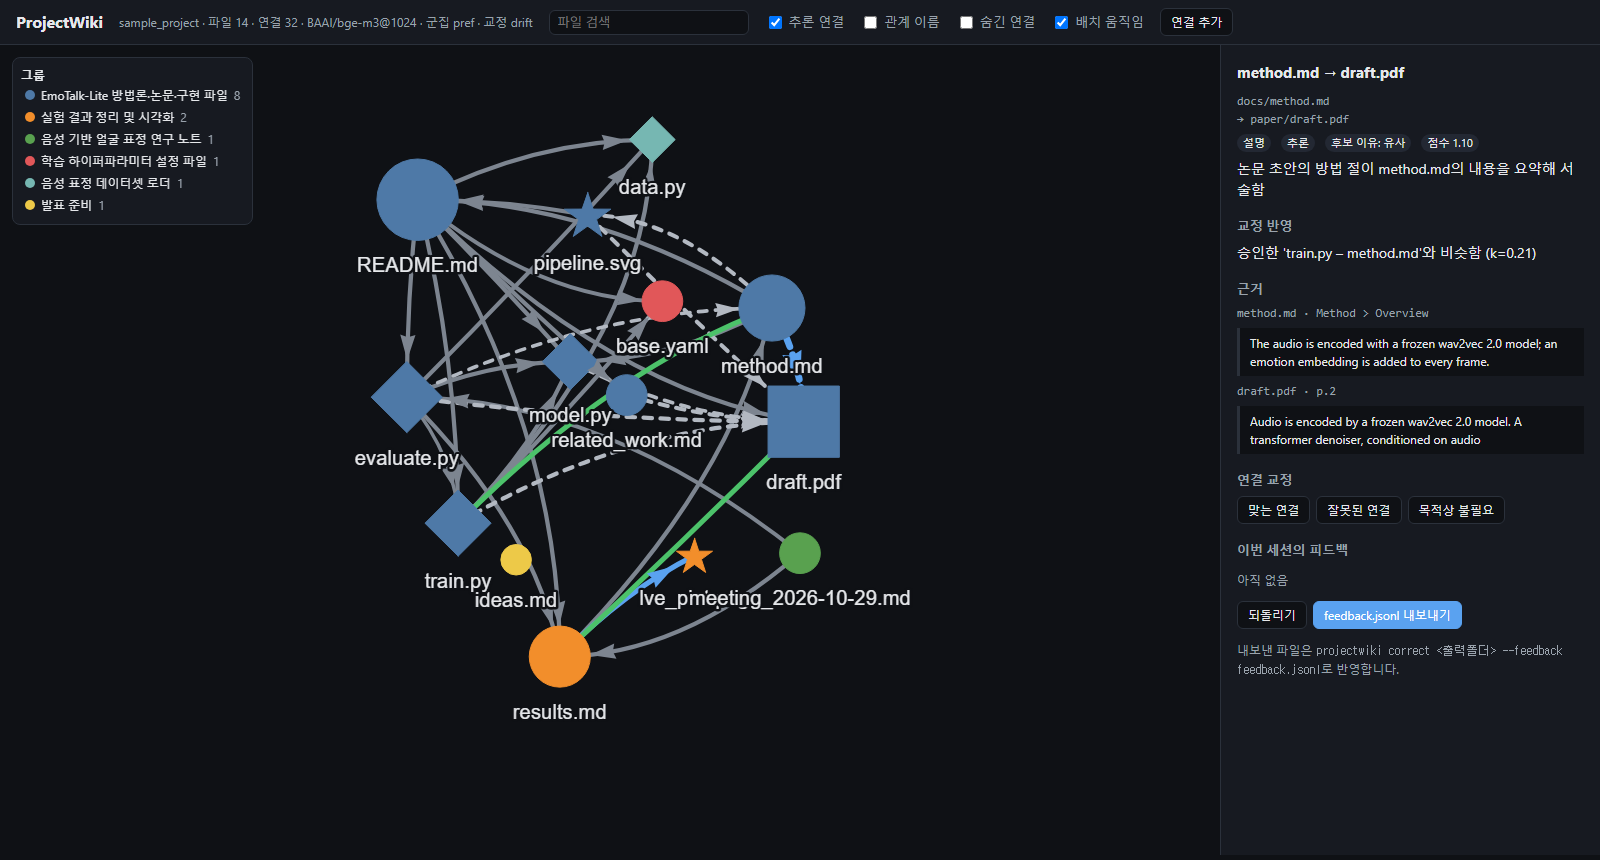
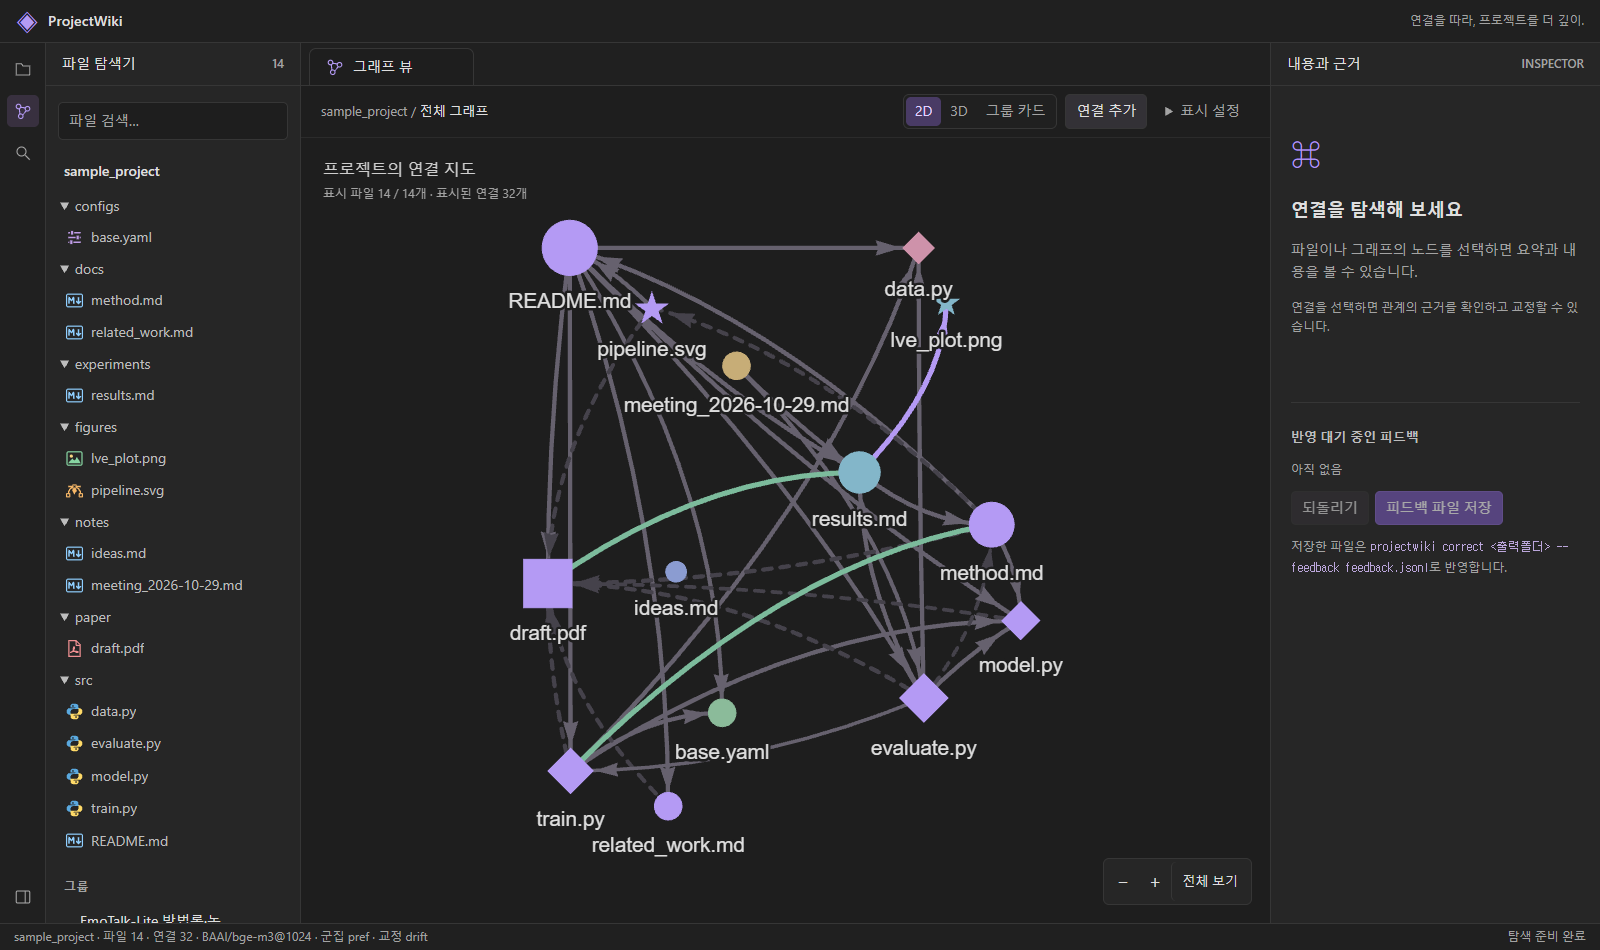
README: current viewer, pipeline and folder docs
- New viewer screenshot (three panes, 2D / 3D / group cards)
- Pipeline diagram adds the --setup preferences and the final approval
- Viewer section rewritten for the current screen; 3D height explained
- models/ and srcs/ READMEs list best-of-n and the files added since 11/24

diff --git a/README.md b/README.md
@@ -13,16 +13,18 @@
 
 ```mermaid
 flowchart LR
+  S[사전 선호 입력<br/>--setup] -.-> M2
   A[프로젝트 폴더] --> I[파일 입력<br/>근거 조각] --> R1[그림 설명·요약<br/>Claude]
   R1 --> M1[① 인코딩<br/>bge-m3] --> R2[프로젝트 레코드]
   R2 --> M2[② 군집화 🧪] --> M3[③ 구조 생성<br/>reranker + Claude 판정]
-  M3 --> M4[④ 선호도 반영 🧪] --> F[최종 그래프<br/>직접 편집 재적용] --> M5[⑤ 시각화]
+  M3 --> M4[④ 선호도 반영 🧪] --> F[최종 그래프<br/>직접 편집 재적용] --> M5[⑤ 시각화<br/>뷰어]
   M5 -. 사용자 피드백 .-> M4
+  M5 --> W[최종 승인<br/>그래프·위키 고정]
   classDef model fill:#dbe9f7,stroke:#4e79a7,color:#1f2328
   class M1,M2,M3,M4,M5 model
 ```
 
-파란 상자가 모델 단계(①–⑤)이고, 단계마다 [`projectwiki/models/`](projectwiki/models)의 파일 하나가 맡습니다.
+파란 상자가 모델 단계(①–⑤)이고, 단계마다 [`projectwiki/models/`](projectwiki/models)의 파일 하나가 맡습니다. `build --setup`으로 시작하면 사전 선호 입력부터 피드백 반영, 최종 승인까지 브라우저 한 화면에서 이어집니다.
 
 | 모델 단계 | 파일 | 하는 일 | 모델·방법 |
 |---|---|---|---|
@@ -30,7 +32,7 @@ flowchart LR
 | 2 군집화 🧪 | [`clustering.py`](projectwiki/models/clustering.py) | 파일 → 그룹, 사용자 선호 반영 | `pref`: 중요 파일·쌍 1–5 평가·객관식 가이드 (회의안) / `baseline`: 선호 미반영 |
 | 3 구조 생성 | [`structure.py`](projectwiki/models/structure.py) | 후보 연결 → 근거 쌍 선택 → 관계·방향·직접/추론 판정, 인용 검증 | **bge-reranker-v2-m3**, **Claude Sonnet 5.5** |
 | 4 선호도 반영 🧪 | [`preference.py`](projectwiki/models/preference.py) | 사용자 피드백을 건드리지 않은 연결에 일반화 | `drift`: 커널 끌림/밀어냄 (회의 4안) / `align`: Bradley–Terry 선호 정렬 (회의 1안) / `best-of-n`: Drift 강도 3개 중 피드백에 가장 맞는 것 선택 / `baseline` |
-| 5 시각화 | [`visualization.py`](projectwiki/models/visualization.py) | 뷰어(근거 보기·교정·피드백 내보내기), Obsidian 볼트 | vis-network |
+| 5 시각화 | [`visualization.py`](projectwiki/models/visualization.py) | 뷰어(2D·3D·그룹 카드, 근거 보기, 교정, 피드백), Obsidian 볼트 | vis-network, 3d-force-graph |
 
 흰 상자는 모델 단계 사이의 데이터 준비이고 [`projectwiki/srcs/`](projectwiki/srcs)가 맡습니다.
 
@@ -197,18 +199,24 @@ projectwiki obsidian runs/sample vault/      # Obsidian 볼트로 내보내기
 
 ### 뷰어 (`view.html`)
 
-브라우저로 바로 엽니다. vis-network를 CDN에서 받으므로 인터넷이 필요합니다.
+브라우저로 바로 엽니다. 그래프 라이브러리를 CDN에서 받으므로 인터넷이 필요합니다. 화면은 세 칸입니다.
 
-- **보기**: 2D / 3D(높이 = 중요도) / 그룹 카드
+| 왼쪽: 파일 탐색기 | 가운데: 그래프 뷰 | 오른쪽: 내용과 근거 |
+|---|---|---|
+| 폴더 트리, 파일 검색, 그룹 목록(그룹별로 켜고 끄기) | 2D / 3D / 그룹 카드 전환, 연결 추가, 표시 설정 | 선택한 파일·연결의 요약과 근거, 반영 대기 중인 피드백 |
+
 - **그래프 표시**
-  - 노드 색: 그룹, 노드 모양: 파일 형식
+  - 노드 색: 그룹, 노드 모양: 파일 형식, 노드 크기: 연결 수
   - 실선: 직접 근거, 점선: 추론
-  - 파란 굵은 선: 승인, 초록 선: 사용자가 추가한 연결
-- **노드 클릭**: 요약, 내용 미리보기, 연결 목록을 봅니다. 다른 그룹으로 옮기거나(이동) 그룹에서 뺄 수 있습니다.
+  - 보라 굵은 선: 승인, 초록 선: 사용자가 추가한 연결, 빨간 점선: 숨긴 연결('표시 설정 → 숨긴 연결'을 켜면 보임)
+  - 3D: 높이는 방향 있는 관계(구현·사용·생성 등)를 따라 다른 파일들이 기대는 파일일수록 위입니다.
+  - 그룹 카드: 그룹을 카드 하나로 묶어 그룹 사이 연결만 봅니다.
+- **노드 클릭**: 요약, 내용 미리보기, 연결 목록을 봅니다. 다른 그룹으로 옮기거나 그룹에서 뺄 수 있습니다.
 - **연결 클릭**: 관계, 양쪽 원문 인용, 교정 반영 이유를 봅니다. **맞는 연결 / 잘못된 연결 / 목적상 불필요**로 표시합니다.
 - **연결 추가**: 두 노드를 차례로 누르고 관계 이름을 적습니다 (예: "발표에 함께 쓸 자료").
-- **피드백 저장**: `피드백 파일 저장`으로 받은 `feedback.jsonl`을 `projectwiki correct`에 넘깁니다.
-- **`--setup`으로 연 화면**: `피드백 반영하기`로 바로 반영되고, `최종 승인`으로 그래프·뷰어·위키를 고정합니다.
+- **피드백**: 고친 내용은 오른쪽 '반영 대기 중인 피드백'에 쌓이고 `되돌리기`로 취소합니다.
+  - 일반 실행: `피드백 파일 저장`으로 받은 `feedback.jsonl`을 `projectwiki correct`에 넘깁니다.
+  - `--setup`으로 연 화면: `피드백 반영하기`로 바로 반영되고, `최종 승인`으로 그래프·뷰어·위키를 고정합니다.
 
 ### 출력 폴더
 

diff --git a/projectwiki/models/README.md b/projectwiki/models/README.md
@@ -7,8 +7,8 @@
 | 1 인코딩 | `encoder.py` | 근거 조각·파일 요약을 벡터로 바꿈, 텍스트 해시 캐시 | bge-m3 (테스트용 TF-IDF) | 조각·요약 → `Encoded` |
 | 2 군집화 🧪 | `clustering.py` | 파일을 그룹으로 묶음 (사용자 선호 반영) | `baseline`, `pref` | `Record` + `Preferences` → `list[Group]` |
 | 3 구조 생성 | `structure.py` | 후보 연결 → 근거 쌍 리랭킹 → 관계 판정·인용 검증 | bge-reranker-v2-m3, Claude | `Record` + 그룹 → `Graph` |
-| 4 선호도 반영 🧪 | `preference.py` | 사용자 피드백을 건드리지 않은 연결에 일반화 | `baseline`, `drift`(4안), `align`(1안) | `Graph` + 피드백 → `Correction` |
-| 5 시각화 | `visualization.py` | 뷰어 `view.html`, Obsidian 볼트 | vis-network (모델 없음) | 최종 `Graph` → 파일 |
+| 4 선호도 반영 🧪 | `preference.py` | 사용자 피드백을 건드리지 않은 연결에 일반화 | `baseline`, `drift`(4안), `align`(1안), `best-of-n`(Drift 강도 3개 중 피드백에 가장 맞는 것) | `Graph` + 피드백 → `Correction` |
+| 5 시각화 | `visualization.py` | 뷰어 `view.html`(2D·3D·그룹 카드), Obsidian 볼트 | vis-network, 3d-force-graph (모델 없음) | 최종 `Graph` → 파일 |
 
 ## 실험 구간에 방법 넣기 (2·4단계)
 

diff --git a/projectwiki/srcs/README.md b/projectwiki/srcs/README.md
@@ -16,5 +16,11 @@
 | `report.py` | 도구 | `projectwiki report` → `stages.html` (단계별 출력, 회의안 대비 판정, 교정 방법 비교) |
 | `doctor.py` | 도구 | `projectwiki doctor` → 패키지·GPU·모델 캐시·Claude 연결 점검 |
 | `view_template.html` | 5 시각화 | 뷰어 HTML. 안의 `applyEvents()`는 `finalize.py`와 같은 규칙을 따라야 함 |
+| `setup_server.py` | 사전 선호 입력 (`--setup`) | 이 컴퓨터 안에서만 열리는 주소로 폼 → 빌드 → 그래프 화면을 띄움. 피드백 바로 반영, 최종 승인 |
+| `setup_form.html` | 사전 선호 입력 | 목적·우선할 자료·묶는 방식을 묻는 폼 |
+| `initial_preferences.py` | 사전 선호 입력 | 폼 답을 `Preferences`로 바꾸고, 우선할 자료에 해당하는 파일을 고름 |
+| `text_feedback.py` | 4 선호도 반영 | 글로 쓴 교정 요청 → 검증된 피드백 이벤트 (Claude) |
+| `feedback_changes.py` | 4 선호도 반영 | 피드백 전후 그래프를 비교해 바뀐 연결을 요약 |
+| `wiki_approval.py` | 최종 승인 | 그래프·뷰어·Markdown 위키를 `approved_wiki/`에 한 버전으로 고정 |
 
 데이터 형식은 [`../schema.py`](../schema.py), 설정값은 [`../config.py`](../config.py)에 있습니다.
